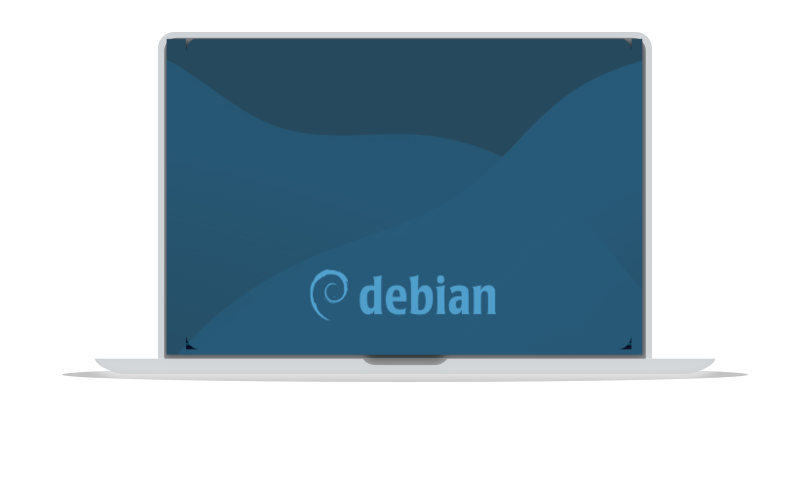
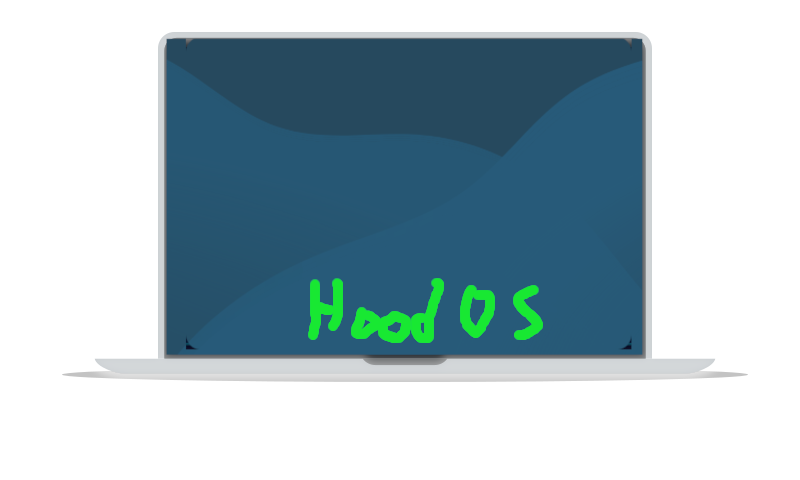
calamares fix

Changed region(s): [[0.375, 0.5625, 0.6875, 0.7188]]

diff --git a/config/includes.chroot_after_packages/etc/calamares/branding/hoodos/show.qml b/config/includes.chroot_after_packages/etc/calamares/branding/hoodos/show.qml
@@ -40,7 +40,7 @@ Presentation
         Text {
             anchors.horizontalCenter: background1.horizontalCenter
             anchors.top: background1.bottom
-            text: qsTr("Welcome to Debian GNU/Linux.<br/>"+
+            text: qsTr("Welcome to HoodOS GNU/Linux.<br/>"+
                   "The rest of the installation is automated and should complete in a few minutes.")
             wrapMode: Text.WordWrap
             width: 600
